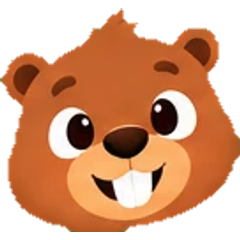
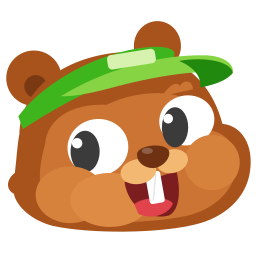
Bento redesenhado em SVG no estilo da referência, com animação
O mascote agora é um único desenho vetorial: humores, roupas e acessórios usam
o mesmo sistema de coordenadas, então nada sai do lugar. Anima acenando,
piscando, respirando e balançando o rabo. Ícones do app e do topo gerados a
partir do mesmo desenho; imagens antigas removidas.

diff --git a/src/ui/components/bento.js b/src/ui/components/bento.js
@@ -1,68 +1,152 @@
-/* Renderização do Bento e das peças da loja, no mesmo espaço das ilustrações (300 × 420). */
+/* Bento, o castor, desenhado em SVG (coordenadas da arte de referência, 1254 × 1254).
+   Humores, roupas e acessórios usam o mesmo sistema de coordenadas: nada sai do lugar. */
 import { S } from '../../engine/state.js';
 
-const MOODS = new Set(['idle','happy','cheer','sad','think','wow']);
-const WALK_SHEETS = {
-  blazer: 'walk-blazer.webp?v=2',
-  moletom: 'walk-moletom.webp?v=2',
-  auditor: 'walk-auditor.webp?v=2'
+const C = {
+  fur:'#A8531C', body:'#B35C22', shade:'#9E4C1A', face:'#CC7433', cheek:'#D6813C', muzzle:'#DD8B45',
+  light:'#F3B872', dark:'#7B3913', tail:'#6C3A28', tailLine:'#55281A', pupil:'#3B3B3B',
+  nose:'#6E3212', mouth:'#7C1D1F', tongue:'#E0434C'
 };
+const MOODS = new Set(['idle','happy','cheer','sad','think','wow']);
+let uid = 0;
 
 export function bento(mood, equip, cls){
   mood = MOODS.has(mood) ? mood : 'idle';
-  equip = equip || S.equip;
-  const walking = mood === 'idle';
-  const accessories = !!(equip.head || equip.neck);
-  if (walking) {
-    const sheet = WALK_SHEETS[equip.body] || 'walk-sheet.webp?v=2';
-    const art = '<span class="bento-walk" style="--bento-sheet:url(\'/images/bento/' + sheet + '\')" role="img" aria-label="Bento, o castor caminhando"></span>';
-    const layers = accessories ? '<svg class="bento-overlay" viewBox="0 0 300 420" aria-hidden="true">' +
+  return '<span class="bento-stage bento ' + mood + ' ' + (cls || '') + '">' + bentoSVG(mood, equip || S.equip) + '</span>';
+}
+
+export function bentoSVG(mood, equip, viewBox, headOnly){
+  equip = equip || {};
+  const id = 'bt' + (++uid);
+  const outfit = OUTFIT[equip.body];
+  const sleeve = outfit ? outfit.sleeve : C.fur;
+  const pose = POSES[mood] || POSES.idle;
+  if (headOnly) return '<svg class="bsvg" viewBox="' + viewBox + '" role="img" aria-label="Bento, o castor"><g class="b-head">' + head(pose) + headItem(equip.head) + '</g></svg>';
+  return '<svg class="bsvg" viewBox="' + (viewBox || '40 70 1180 1110') + '" role="img" aria-label="Bento, o castor">' +
+    '<defs><clipPath id="' + id + '"><path d="' + TAIL + '"/></clipPath></defs>' +
+    '<g class="b-rig">' +
+      '<g class="b-tail"><path d="' + TAIL + '" fill="' + C.tail + '"/><g clip-path="url(#' + id + ')" stroke="' + C.tailLine + '" stroke-width="16" opacity=".85">' + TAIL_LINES + '</g></g>' +
+      '<ellipse cx="520" cy="1082" rx="68" ry="55" transform="rotate(25 520 1082)" fill="' + C.dark + '"/>' +
+      '<path d="' + BODY + '" fill="' + C.body + '"/>' +
+      '<path d="M470 700 C430 800 420 950 470 1030 C510 1058 560 1066 600 1068 C560 1000 540 900 560 800 C570 750 590 715 620 695 Z" fill="' + C.shade + '"/>' +
+      '<ellipse cx="762" cy="862" rx="162" ry="160" fill="' + C.light + '"/>' +
+      (outfit ? outfit.svg : '') +
+      '<ellipse cx="930" cy="1045" rx="92" ry="55" transform="rotate(-28 930 1045)" fill="' + C.dark + '"/>' +
       (equip.neck && NECK[equip.neck] ? NECK[equip.neck] : '') +
-      (equip.head && HEAD[equip.head] ? HEAD[equip.head] : '') + '</svg>' : '';
-    return '<span class="bento-stage bento ' + mood + ' ' + (cls || '') + '">' + art + layers + '</span>';
-  }
-  const P = POSE[mood];
-  const art = '<img class="bento-art" src="/images/bento/' + mood + '.webp" alt="Bento, o castor" width="120" height="132">';
-  const layers = '<svg class="bento-overlay" viewBox="0 0 320 ' + P.h + '" aria-hidden="true">' +
-    (equip.neck && NECK[equip.neck] ? place(NECK[equip.neck], 168, 244, P.neck, P.s) : '') +
-    glasses(P.eyes) +
-    (equip.head && HEAD[equip.head] ? place(HEAD[equip.head], 160, 30, P.head, P.s) : '') + '</svg>';
-  return '<span class="bento-stage bento ' + mood + ' ' + (cls || '') + '">' + art + layers + '</span>';
+      '<g class="b-arm-r">' + pose.armR(sleeve) + '</g>' +
+      '<g class="b-arm-l">' + pose.armL(sleeve) + '</g>' +
+      '<g class="b-head">' + head(pose) + headItem(equip.head) + '</g>' +
+    '</g></svg>';
 }
 
-/* Cada humor é uma ilustração com enquadramento próprio: onde ficam o alto da
-   cabeça, o pescoço e os olhos (em pixels da imagem de 320 de largura). */
-const POSE = {
-  happy: { h:344, s:1.10, head:[172, 28, 0], neck:[167, 212], eyes:[[112,118],[218,118]] },
-  cheer: { h:364, s:1.00, head:[172, 30, 8], neck:[170, 210], eyes:[[135,120],[212,118]] },
-  sad:   { h:382, s:1.30, head:[185, 26, 0], neck:[185, 256], eyes:[[130,170],[240,166]] },
-  think: { h:365, s:1.13, head:[175, 22, -6], neck:[185, 224], eyes:[[143,129],[225,112]] },
-  wow:   { h:395, s:1.30, head:[195, 52, 0], neck:[195, 254], eyes:[[150,172],[233,160]] },
+const TAIL = 'M200 632 C130 640 88 720 98 810 C110 915 200 1005 320 1020 C400 1030 455 1000 450 950 C440 880 400 780 350 700 C310 645 260 628 200 632Z';
+const TAIL_LINES = [560, 650, 740, 830].map(b => '<path d="M40 ' + (b + 22) + ' L500 ' + (b + 275) + '"/>').join('') +
+  [190, 285, 380, 475].map(x => '<path d="M' + x + ' 600 L' + (x - 70) + ' 1060"/>').join('');
+const BODY = 'M470 700 C430 800 420 950 470 1030 C530 1075 760 1070 880 1045 C965 1020 990 930 968 830 C945 740 890 690 800 685 Z';
+
+/* ---------- braços por pose ---------- */
+const hand = (x, y, r = 0) => '<ellipse cx="' + x + '" cy="' + y + '" rx="45" ry="56" transform="rotate(' + r + ' ' + x + ' ' + y + ')" fill="' + C.dark + '"/>';
+const ARM = {
+  wave: s => '<path d="M858 700 C950 650 1015 585 1060 530 C1100 490 1170 520 1162 585 C1150 650 1080 720 975 792 C928 812 885 790 858 700Z" fill="' + s + '"/>' + hand(1118, 565, 20),
+  front: s => '<path d="M570 760 C500 742 430 748 395 775 C368 800 378 850 420 864 C470 877 535 860 580 840 Z" fill="' + s + '"/>' + hand(395, 792),
+  upL: s => '<path d="M545 785 C470 720 380 610 325 520 C300 468 238 480 245 535 C258 610 380 740 470 825 Z" fill="' + s + '"/>' + hand(272, 478, -25),
+  downR: s => '<path d="M880 730 C945 780 975 850 965 910 C958 945 912 950 895 915 C878 872 866 820 850 785 Z" fill="' + s + '"/>' + hand(935, 925, -15),
+  downL: s => '<path d="M560 760 C505 790 480 850 488 910 C494 945 540 950 555 915 C570 870 580 820 600 790 Z" fill="' + s + '"/>' + hand(520, 925, 15),
+  chin: s => '<path d="M930 780 C930 730 890 700 850 705 C815 712 815 752 850 772 Z" fill="' + s + '"/>' + hand(830, 712, 60)
 };
 
-function place(svg, ax, ay, [x, y, rot = 0], s){
-  return '<g transform="translate(' + x + ' ' + y + ') rotate(' + rot + ') scale(' + s + ') translate(' + (-ax) + ' ' + (-ay) + ')">' + svg + '</g>';
+/* ---------- rosto por pose ---------- */
+const eyeOpen = (big, dx = 0, dy = 0) => {
+  const k = big ? 1.12 : 1, p = big ? 0.8 : 1;
+  return '<g class="b-eye"><ellipse cx="585" cy="478" rx="' + 88 * k + '" ry="' + 82 * k + '" transform="rotate(-8 585 478)" fill="#fff"/>' +
+    '<ellipse cx="' + (548 + dx) + '" cy="' + (490 + dy) + '" rx="' + 42 * p + '" ry="' + 60 * p + '" fill="' + C.pupil + '"/><circle cx="' + (525 + dx) + '" cy="' + (466 + dy) + '" r="15" fill="#fff"/></g>' +
+    '<g class="b-eye"><ellipse cx="842" cy="400" rx="' + 80 * k + '" ry="' + 72 * k + '" transform="rotate(-12 842 400)" fill="#fff"/>' +
+    '<ellipse cx="' + (808 + dx) + '" cy="' + (420 + dy) + '" rx="' + 38 * p + '" ry="' + 58 * p + '" fill="' + C.pupil + '"/><circle cx="' + (788 + dx) + '" cy="' + (395 + dy) + '" r="14" fill="#fff"/></g>';
+};
+const EYES_HAPPY = '<g fill="none" stroke="' + C.pupil + '" stroke-width="20" stroke-linecap="round"><path d="M515 500 Q585 410 655 485"/><path d="M775 425 Q840 350 900 408"/></g>';
+const brows = (l, r) => '<g fill="none" stroke="' + C.dark + '" stroke-width="18" stroke-linecap="round"><path d="' + l + '"/><path d="' + r + '"/></g>';
+const MOUTH_OPEN = '<path d="M662 578 C672 650 735 690 790 675 C822 660 825 600 812 545 C765 565 705 578 662 578Z" fill="' + C.mouth + '"/>' +
+  '<path d="M690 642 C715 622 782 616 802 640 C792 670 742 690 702 670Z" fill="' + C.tongue + '"/>' +
+  '<rect x="728" y="548" width="44" height="92" rx="8" transform="rotate(-10 750 594)" fill="#fff"/><path d="M752 553 L745 632" stroke="#E4E4E4" stroke-width="4"/>';
+const TOOTH = '<rect x="726" y="555" width="40" height="62" rx="8" transform="rotate(-10 746 586)" fill="#fff"/><path d="M748 560 L742 612" stroke="#E4E4E4" stroke-width="4"/>';
+const MOUTH = {
+  open: MOUTH_OPEN,
+  sad: TOOTH.replace('y="555"', 'y="600"').replace('height="62"', 'height="44"').replace('M748 560 L742 612', 'M748 604 L744 640') + '<path d="M672 628 Q740 584 810 612" fill="none" stroke="' + C.mouth + '" stroke-width="16" stroke-linecap="round"/>',
+  think: TOOTH + '<path d="M688 628 Q740 646 800 612" fill="none" stroke="' + C.mouth + '" stroke-width="16" stroke-linecap="round"/>',
+  wow: '<ellipse cx="742" cy="628" rx="42" ry="54" fill="' + C.mouth + '"/><ellipse cx="742" cy="660" rx="28" ry="18" fill="' + C.tongue + '"/>' + TOOTH.replace('y="555"', 'y="548"').replace('height="62"', 'height="40"')
+};
+
+const POSES = {
+  idle:  { eyes:() => eyeOpen(false), mouth:MOUTH.open, armR:ARM.wave, armL:ARM.front },
+  happy: { eyes:() => EYES_HAPPY, mouth:MOUTH.open, armR:ARM.wave, armL:ARM.front },
+  cheer: { eyes:() => EYES_HAPPY, mouth:MOUTH.open, armR:ARM.wave, armL:ARM.upL },
+  sad:   { eyes:() => eyeOpen(false, 6, 18) + brows('M500 412 L625 372', 'M768 322 L890 350'), mouth:MOUTH.sad, armR:ARM.downR, armL:ARM.downL },
+  think: { eyes:() => eyeOpen(false, 18, -20) + brows('M505 372 L625 392', 'M770 300 Q830 262 890 290'), mouth:MOUTH.think, armR:ARM.chin, armL:ARM.front },
+  wow:   { eyes:() => eyeOpen(true, 4, 0) + brows('M500 360 Q565 318 630 352', 'M770 292 Q830 252 890 282'), mouth:MOUTH.wow, armR:ARM.downR, armL:ARM.front }
+};
+
+function head(pose){
+  return '<circle cx="400" cy="278" r="80" fill="' + C.fur + '"/><circle cx="405" cy="302" r="33" fill="' + C.dark + '"/>' +
+    '<ellipse cx="757" cy="185" rx="68" ry="72" fill="' + C.fur + '"/>' +
+    '<path d="M358 440 C360 320 470 225 630 205 C790 188 905 260 945 410 C1000 415 1035 470 1025 545 C1015 625 950 680 870 700 C760 728 560 728 455 705 C395 690 350 650 342 612 C318 600 320 570 345 552 C350 510 352 470 358 440Z" fill="' + C.fur + '"/>' +
+    '<path d="M432 470 C438 395 510 350 610 355 C660 330 720 318 780 322 C860 330 905 380 915 430 C965 440 995 490 985 545 C972 615 905 668 820 680 C700 700 560 700 475 672 C418 645 402 575 432 470Z" fill="' + C.face + '"/>' +
+    '<path d="M770 330 C790 300 810 285 822 300 C835 280 858 285 860 310 Z" fill="' + C.face + '"/>' +
+    pose.eyes() +
+    '<ellipse cx="505" cy="615" rx="100" ry="82" fill="' + C.cheek + '"/>' +
+    '<ellipse cx="620" cy="630" rx="115" ry="78" fill="' + C.muzzle + '"/>' +
+    '<ellipse cx="915" cy="522" rx="80" ry="80" fill="' + C.cheek + '"/>' +
+    pose.mouth +
+    '<ellipse cx="702" cy="548" rx="52" ry="36" transform="rotate(-10 702 548)" fill="' + C.light + '"/>' +
+    '<ellipse cx="800" cy="518" rx="46" ry="34" transform="rotate(-15 800 518)" fill="' + C.light + '"/>' +
+    '<path d="M698 497 C700 472 775 462 790 487 C798 507 772 537 745 538 C718 538 697 520 698 497Z" fill="' + C.nose + '"/>' +
+    '<ellipse cx="728" cy="488" rx="16" ry="9" fill="#fff" opacity=".22"/>';
 }
 
-function glasses([[x1, y1], [x2, y2]]){
-  const d = Math.hypot(x2 - x1, y2 - y1), r = d * 0.27, a = Math.atan2(y2 - y1, x2 - x1) * 180 / Math.PI;
-  const cx = (x1 + x2) / 2, cy = (y1 + y2) / 2, h = d / 2;
-  return '<g transform="translate(' + cx + ' ' + cy + ') rotate(' + a + ')" fill="rgba(255,255,255,.12)" stroke="#1F4A36" stroke-width="' + (r * 0.24) + '" stroke-linecap="round">' +
-    '<circle cx="' + (-h) + '" cy="0" r="' + r + '"/><circle cx="' + h + '" cy="0" r="' + r + '"/>' +
-    '<path d="M' + (-h + r) + ' -2 Q0 ' + (-r * 0.45) + ' ' + (h - r) + ' -2" fill="none"/>' +
-    '<path d="M' + (-h - r) + ' -3 L' + (-h - r * 1.7) + ' -8 M' + (h + r) + ' -3 L' + (h + r * 1.7) + ' -8" fill="none"/></g>';
-}
-
+/* ---------- itens da loja ---------- */
+const VISOR = '<path d="M355 388 C420 300 560 215 700 192 C760 182 800 188 806 204 L804 250 C700 252 560 300 368 425 Z" fill="#3FB51D"/>' +
+  '<path d="M478 330 C600 255 760 208 900 212 C958 215 985 245 972 268 C900 248 760 268 600 312 C560 322 510 332 478 330Z" fill="#86D443"/>' +
+  '<path d="M820 228 C900 214 970 232 975 262 C955 290 905 300 880 305 C885 275 865 248 820 228Z" fill="#22890F"/>' +
+  '<rect x="612" y="202" width="140" height="42" rx="12" transform="rotate(-9 682 223)" fill="#D6F2AE"/>';
 const HEAD = {
-  viseira: '<path d="M74 66 Q165 31 256 66 L250 80 Q165 56 80 82Z" fill="#237A55" stroke="#185C40" stroke-width="3"/><path d="M83 77 Q165 58 248 77 L261 91 Q165 73 70 94Z" fill="#39A979" stroke="#185C40" stroke-width="2"/>',
-  bone: '<path d="M78 76 Q80 35 164 33 Q236 34 241 76Z" fill="#B3432B" stroke="#8E3321" stroke-width="3"/><path d="M159 73 Q220 64 261 82 Q240 98 161 89Z" fill="#8E3321" stroke="#742A1D" stroke-width="3"/><path d="M111 54 Q153 39 191 49" fill="none" stroke="#D96A4F" stroke-width="5" stroke-linecap="round"/>',
-  capacete: '<path d="M77 77 Q77 29 164 27 Q245 29 244 77Z" fill="#F2B705" stroke="#A97800" stroke-width="4"/><path d="M62 74 Q164 61 258 75 L253 91 Q163 81 68 92Z" fill="#D99F00" stroke="#A97800" stroke-width="3"/><path d="M116 39 Q164 28 204 39" fill="none" stroke="#FFE27A" stroke-width="6" stroke-linecap="round"/>',
-  capelo: '<path d="M165 13 L256 47 L165 78 L74 47Z" fill="#244B6E" stroke="#1C3D5A" stroke-width="4"/><path d="M119 51 H211 V81 Q166 94 119 81Z" fill="#1C3D5A"/><path d="M239 53 V95" stroke="#E0B750" stroke-width="4"/><circle cx="239" cy="99" r="5" fill="#E0B750"/>',
-  coroa: '<path d="M104 75 L111 31 L139 56 L165 18 L191 56 L219 31 L226 75Z" fill="#E0B750" stroke="#A87E1F" stroke-width="4" stroke-linejoin="round"/><path d="M111 77 H219 V88 H111Z" fill="#C5962B"/><circle cx="165" cy="68" r="7" fill="#B3432B"/>',
-  fones: '<path d="M81 151 V126 Q81 43 165 43 Q249 43 249 126 V151" fill="none" stroke="#294941" stroke-width="10" stroke-linecap="round"/><rect x="70" y="119" width="27" height="48" rx="12" fill="#39788A" stroke="#294941" stroke-width="4"/><rect x="233" y="119" width="27" height="48" rx="12" fill="#39788A" stroke="#294941" stroke-width="4"/><path d="M77 131 V153 M253 131 V153" stroke="#80B7B0" stroke-width="4" stroke-linecap="round"/>'
+  bone: '<path d="M372 405 C390 262 535 182 680 178 C822 176 915 250 935 335 C800 302 560 322 372 405Z" fill="#C0432A"/>' +
+    '<path d="M835 300 C900 282 995 292 1015 320 C995 352 930 358 878 352 Z" fill="#94311F"/><circle cx="662" cy="182" r="15" fill="#94311F"/>' +
+    '<path d="M520 250 C590 215 660 205 730 210" fill="none" stroke="#DB6A50" stroke-width="18" stroke-linecap="round"/>',
+  capacete: '<path d="M385 392 C395 250 540 168 682 166 C832 166 930 250 936 330 Z" fill="#F2B705"/>' +
+    '<path d="M340 408 C520 320 765 290 980 324 L975 358 C762 322 530 352 352 442 Z" fill="#D99F00"/>' +
+    '<path d="M560 205 C640 178 720 178 792 198" fill="none" stroke="#FFE27A" stroke-width="24" stroke-linecap="round"/>',
+  capelo: '<path d="M462 340 C520 255 780 225 868 285 L858 338 C760 296 560 306 472 392Z" fill="#1C3D5A"/>' +
+    '<path d="M652 112 L940 205 L682 298 L395 212Z" fill="#244B6E"/><circle cx="668" cy="205" r="14" fill="#E0B750"/>' +
+    '<path d="M668 205 L885 225 L902 335" fill="none" stroke="#E0B750" stroke-width="10"/><circle cx="903" cy="348" r="18" fill="#E0B750"/>',
+  coroa: '<path d="M492 332 L472 178 L566 250 L650 132 L732 234 L836 156 L846 304 C735 284 600 294 492 332Z" fill="#E0B750" stroke="#A87E1F" stroke-width="12" stroke-linejoin="round"/>' +
+    '<circle cx="660" cy="282" r="20" fill="#B3432B"/><circle cx="560" cy="300" r="12" fill="#3FB51D"/><circle cx="765" cy="276" r="12" fill="#39788A"/>',
+  fones: '<path d="M372 520 C360 300 500 190 662 185 C822 182 952 290 962 470" fill="none" stroke="#294941" stroke-width="32" stroke-linecap="round"/>' +
+    '<rect x="326" y="468" width="78" height="134" rx="34" fill="#39788A" stroke="#294941" stroke-width="12"/>' +
+    '<rect x="932" y="406" width="76" height="128" rx="34" fill="#39788A" stroke="#294941" stroke-width="12"/>'
 };
+function headItem(id){ return id && HEAD[id] ? HEAD[id] : VISOR; }
 
 const NECK = {
-  gravata: '<path d="M153 244 H183 L177 258 H159Z" fill="#8E3321"/><path d="M159 257 L177 257 L184 325 L168 340 L152 325Z" fill="#B3432B" stroke="#8E3321" stroke-width="3" stroke-linejoin="round"/><path d="M163 266 L173 266 L178 318" fill="none" stroke="#D96A4F" stroke-width="3" stroke-linecap="round"/>',
-  cachecol: '<path d="M119 235 Q165 254 212 235 L208 261 Q165 281 123 261Z" fill="#1F6F78" stroke="#18585F" stroke-width="3"/><path d="M190 257 L215 256 L224 322 L199 326Z" fill="#18585F" stroke="#12484E" stroke-width="3"/><path d="M128 250 Q165 265 201 250" fill="none" stroke="#E0B750" stroke-width="4" stroke-dasharray="7 7"/>'
+  gravata: '<path d="M705 700 L778 695 L768 742 L716 745Z" fill="#8E3321"/><path d="M716 740 L768 738 L795 905 L745 958 L700 900Z" fill="#B3432B"/>' +
+    '<path d="M735 760 L760 890" stroke="#D96A4F" stroke-width="8" stroke-linecap="round"/>',
+  cachecol: '<path d="M465 688 C600 742 800 742 905 686 L912 748 C800 806 590 806 458 748Z" fill="#1F6F78"/>' +
+    '<path d="M792 742 L858 734 L884 905 L816 912Z" fill="#18585F"/>' +
+    '<path d="M500 735 C620 775 780 775 880 730" fill="none" stroke="#E0B750" stroke-width="10" stroke-dasharray="26 22"/>'
+};
+
+const jacket = (color, lapel, shirt, button) =>
+  '<path d="M470 700 C430 800 420 950 470 1030 C540 1068 640 1072 705 1070 L705 905 L612 700Z" fill="' + color + '"/>' +
+  '<path d="M820 688 C900 700 950 750 968 830 C990 930 965 1020 880 1045 C820 1058 765 1066 722 1070 L722 905 L800 692Z" fill="' + color + '"/>' +
+  '<path d="M612 700 L705 905 L722 905 L800 692 Z" fill="' + shirt + '"/>' +
+  '<path d="M612 700 L700 880 L640 800 L610 760Z" fill="' + lapel + '"/><path d="M800 692 L726 880 L790 800 L815 752Z" fill="' + lapel + '"/>' +
+  '<circle cx="714" cy="960" r="13" fill="' + button + '"/><circle cx="714" cy="1015" r="13" fill="' + button + '"/>';
+const OUTFIT = {
+  blazer: { sleeve:'#1F5C43', svg: jacket('#1F5C43', '#17483A', '#F4F1E8', '#E0B750') },
+  auditor: { sleeve:'#22304F', svg: jacket('#22304F', '#172238', '#DDE3EA', '#C9CED6') +
+    '<path d="M700 705 L728 705 L740 880 L714 910 L690 880Z" fill="#B3432B"/>' },
+  moletom: { sleeve:'#2E8C8C', svg:
+    '<path d="' + BODY + '" fill="#2E8C8C"/>' +
+    '<path d="M462 700 C590 770 800 765 895 690 L915 730 C800 812 580 812 450 742Z" fill="#257575"/>' +
+    '<path d="M618 925 L902 925 L882 1022 L640 1022Z" fill="#257575"/>' +
+    '<path d="M680 752 L672 850 M790 750 L800 848" stroke="#F4F1E8" stroke-width="10" stroke-linecap="round"/>' +
+    '<circle cx="672" cy="858" r="11" fill="#F4F1E8"/><circle cx="800" cy="856" r="11" fill="#F4F1E8"/>' }
 };

diff --git a/src/styles/learning.css b/src/styles/learning.css
@@ -90,7 +90,8 @@
 .shop-card{display:flex;flex-direction:column;gap:5px;padding:12px;border:1px solid var(--line);background:var(--card);border-radius:16px;min-width:0;transition:transform .18s,border-color .18s,background .18s;}
 .shop-card.selected{border-color:var(--green);background:var(--greenp);}
 .sc-prev{height:94px;width:100%;display:grid;place-items:center;border-radius:12px;background:var(--soft);overflow:hidden;}
-.sc-prev .bento-wrap{width:72px;height:82px;}
+.sc-prev{position:relative;}
+.sc-prev .bento-stage{position:absolute;inset:4px;width:auto;height:auto;}
 .sc-n{font-size:.82rem;font-weight:700;line-height:1.35;min-height:2.3em;margin:2px 0 0;}
 .sc-desc{font-size:.7rem;line-height:1.4;color:var(--muted);min-height:2.8em;}
 .shop-card .seqbtn{margin-top:auto;}
@@ -119,7 +120,7 @@ body.modal-open{overflow:hidden;}
   .course-metrics{gap:12px;}
   .course-metrics>span{flex:1;}
   .shop-preview{gap:10px;padding:12px;}
-  .shop-preview .bento-wrap.lg{width:120px;height:132px;margin:0;}
+  .shop-preview .bento-wrap.lg{width:140px;height:132px;margin:0;}
   .shop-current{font-size:.73rem;}
   .shop-card{padding:9px;}
   .sc-prev{height:84px;}
@@ -127,15 +128,27 @@ body.modal-open{overflow:hidden;}
 
 /* O castor permanece no lugar: quem se move são as quatro poses do passo. */
 .bento-stage{display:block;position:relative;width:100%;height:100%;}
-.bento-stage .bento-art,.bento-eq .bento-art{position:absolute;inset:0;width:100%;height:100%;object-fit:contain;}
-.bento-overlay{position:absolute;inset:0;width:100%;height:100%;overflow:visible;pointer-events:none;}
-.bento-walk{position:absolute;left:50%;top:0;height:100%;aspect-ratio:3/4;transform:translateX(-50%);background-image:var(--bento-sheet,url('/images/bento/walk-sheet.webp'));background-repeat:no-repeat;background-size:400% 100%;background-position:0 0;animation:bento-step .92s steps(1,end) infinite;}
-@keyframes bento-step{
-  0%,100%{background-position:0 0;}
-  25%{background-position:33.333% 0;}
-  50%{background-position:66.667% 0;}
-  75%{background-position:100% 0;}
-}
+.bento-stage .bsvg{display:block;width:100%;height:100%;overflow:visible;}
+.bsvg .b-rig{transform-box:view-box;transform-origin:700px 1100px;}
+.bsvg .b-tail{transform-box:view-box;transform-origin:440px 960px;animation:btail 2.6s ease-in-out infinite;}
+.bsvg .b-eye{transform-box:fill-box;transform-origin:center;animation:bblink 5s infinite;}
+.bento.idle .b-rig{animation:bbreath 2.8s ease-in-out infinite;}
+.bento.idle .b-arm-r,.bento.happy .b-arm-r,.bento.cheer .b-arm-r{transform-box:view-box;transform-origin:880px 760px;animation:bwave 1.6s ease-in-out infinite;}
+.bento.cheer .b-arm-l{transform-box:view-box;transform-origin:520px 790px;animation:bwavel 1.6s ease-in-out infinite;}
+.bento.happy .b-rig,.bento.cheer .b-rig{animation:bhop .9s ease-in-out infinite;}
+.bento.think .b-head{transform-box:view-box;transform-origin:680px 700px;animation:btilt 3s ease-in-out infinite;}
+.bento.sad .b-rig{animation:bsag 3s ease-in-out infinite;}
+.bento.wow .b-rig{animation:bwow .6s ease-out 1;}
+@keyframes btail{0%,100%{transform:rotate(0)}50%{transform:rotate(5deg)}}
+@keyframes bblink{0%,92%,100%{transform:scaleY(1)}95%{transform:scaleY(.08)}}
+@keyframes bbreath{0%,100%{transform:translateY(0) scale(1)}50%{transform:translateY(-10px) scale(1.01)}}
+@keyframes bwave{0%,100%{transform:rotate(0)}50%{transform:rotate(-16deg)}}
+@keyframes bwavel{0%,100%{transform:rotate(0)}50%{transform:rotate(14deg)}}
+@keyframes bhop{0%,100%{transform:translateY(0)}40%{transform:translateY(-40px)}70%{transform:translateY(0) scaleY(.97)}}
+@keyframes btilt{0%,100%{transform:rotate(0)}50%{transform:rotate(-4deg)}}
+@keyframes bsag{0%,100%{transform:translateY(0)}50%{transform:translateY(8px)}}
+@keyframes bwow{0%{transform:scale(.9)}60%{transform:scale(1.06)}100%{transform:scale(1)}}
+@media(prefers-reduced-motion:reduce){.bsvg *{animation:none !important;}}
 @media(hover:hover){
   .learning-unit{transition:border-color .18s,box-shadow .18s;}
   .learning-unit:hover{border-color:color-mix(in srgb,var(--green) 38%,var(--line));box-shadow:0 7px 24px -20px var(--shadow);}
@@ -149,4 +162,3 @@ body.modal-open{overflow:hidden;}
   .learning-unit summary{min-height:72px;}
   .checkpoint-card{min-height:68px;}
 }
-@media(prefers-reduced-motion:reduce){.bento-walk{animation:none;background-position:0 0;}}

diff --git a/src/styles/main.css b/src/styles/main.css
@@ -75,24 +75,20 @@ h1,h2,h3{font-family:var(--fd); color:var(--ink); line-height:1.25; margin:0;}
 /* ---------- Bento, o castor ---------- */
 .bento-wrap{flex:none; filter:drop-shadow(0 4px 6px var(--shadow));}
 svg.bento, img.bento, img.bento-img{display:block; width:100%; height:100%; object-fit:contain;}
-.bento-wrap.xs{width:46px; height:50px;}
-.bento-wrap.sm{width:58px; height:64px;}
-.bento-wrap.md{width:100px; height:110px; margin:0 auto 8px;}
-.bento-wrap.lg{width:150px; height:165px; margin:0 auto;}
-.bento-wrap.xl{width:130px; height:143px; margin:0 auto 14px;}
+.bento-wrap.xs{width:54px; height:51px;}
+.bento-wrap.sm{width:76px; height:72px;}
+.bento-wrap.md{width:130px; height:122px; margin:0 auto 8px;}
+.bento-wrap.lg{width:170px; height:160px; margin:0 auto;}
+.bento-wrap.xl{width:220px; height:207px; margin:0 auto 14px;}
 .bento-wrap.center-b{display:block;}
 .bento-row{display:flex; align-items:flex-end; gap:10px; padding:14px 16px 4px;}
 .bento-row.tight{padding:0 0 10px; align-items:center;}
 .speech{position:relative; flex:1; background:var(--card); border:1px solid var(--line); border-radius:14px; padding:10px 13px; font-size:.87rem; line-height:1.4; color:var(--text); margin-bottom:6px;}
 .speech::before{content:""; position:absolute; left:-7px; bottom:12px; width:12px; height:12px; background:var(--card); border-left:1px solid var(--line); border-bottom:1px solid var(--line); transform:rotate(45deg);}
 .speech.sm{font-size:.85rem; margin-bottom:0;}
-.bento.happy,.bento.cheer{animation:bbounce .5s ease;}
-.bento.sad{animation:bshake .4s ease;}
-.bento-hero-wave{animation:bhero 2.6s ease-in-out infinite; transform-origin:70% 85%;}
 @keyframes bfloat{0%,100%{transform:translateY(0)} 50%{transform:translateY(-4px)}}
 @keyframes bbounce{0%{transform:scale(1)} 30%{transform:scale(1.12)} 60%{transform:scale(.96)} 100%{transform:scale(1)}}
 @keyframes bshake{20%{transform:translateX(-4px) rotate(-2deg)} 60%{transform:translateX(4px) rotate(2deg)} 100%{transform:translateX(0) rotate(0)}}
-@keyframes bhero{0%,100%{transform:translateY(0) rotate(0)} 30%{transform:translateY(-6px) rotate(-2deg)} 60%{transform:translateY(0) rotate(2deg)}}
 
 /* ---------- home ---------- */
 .goal-row{display:flex; align-items:center; gap:14px; padding:6px 16px 4px;}
@@ -437,9 +433,6 @@ tr:last-child td{border-bottom:none;}
 @media (prefers-reduced-motion: reduce){
   *,*::before,*::after{animation:none !important; transition:none !important;}
 }
-.bento-eq{display:block; position:relative; width:100%; height:100%;}
-.bento-eq img{display:block; width:100%; height:100%; object-fit:contain;}
-.bento-eq svg{position:absolute; inset:0; width:100%; height:100%; overflow:visible;}
 .acorn{width:1.15em; height:1.15em; display:inline-block; vertical-align:-.2em; flex:none;}
 .pill .xpl{font-style:normal; font-size:.72rem; font-weight:800; letter-spacing:.04em;}
 .stats{flex:none;}

diff --git a/src/ui/screens/shop.js b/src/ui/screens/shop.js
@@ -14,7 +14,7 @@ export function renderShop(){
   s.innerHTML = '<div class="pad"><h1 style="font-size:1.45rem">Loja do Bento</h1><div class="pill xp" style="width:fit-content;margin:6px 0 16px">' + ACORN + ' <span>' + S.coins + '</span> bolotas</div>' +
     '<div class="shop-preview"><div class="bento-wrap lg">' + bento('idle', S.equip, 'shop-avatar') + '</div><div class="shop-current"><span class="eyebrow">VISUAL ATUAL</span><strong>' + currentLook() + '</strong><span>Combine acessórios e visuais para personalizar o Bento.</span></div></div>' +
     '<h2 class="sec-h" style="margin:6px 0 10px">Represa da sequência</h2><div class="card" style="display:flex;align-items:center;gap:12px"><span style="font-size:1.8rem">🛡</span><div style="flex:1"><div style="font-weight:700">Represa de sequência</div><div class="small muted">Protege sua sequência se você faltar um dia. Você tem ' + S.freezes + '.</div></div><button class="btn primary" data-act="buyfreeze" style="width:auto;padding:10px 16px" ' + (S.coins < 80 ? 'disabled' : '') + '>80' + ACORN + '</button></div>' +
-    '<h2 class="sec-h shop-section-title">Visuais completos</h2><p class="shop-intro">Mude o estilo do Bento. O corpinho laranja e a barriguinha continuam aparecendo.</p><div class="shop-grid body-skins">' + OUTFITS.filter(o => o.slot === 'body').map(shopCard).join('') + '</div>' +
+    '<h2 class="sec-h shop-section-title">Visuais completos</h2><p class="shop-intro">Roupas para o Bento. Combinam com qualquer chapéu e acessório.</p><div class="shop-grid body-skins">' + OUTFITS.filter(o => o.slot === 'body').map(shopCard).join('') + '</div>' +
     '<h2 class="sec-h shop-section-title">Acessórios</h2><p class="shop-intro">Escolha um item para a cabeça ou para o pescoço.</p><div class="shop-grid">' + OUTFITS.filter(o => o.slot !== 'body').map(shopCard).join('') + '</div></div>';
   bindActs(s, { buyfreeze: buyFreeze });
   $$('[data-buy]', s).forEach(b => b.onclick = () => buyOutfit(b.dataset.buy));
@@ -28,7 +28,6 @@ function shopCard(o){
 }
 function currentLook(){
   const parts = OUTFITS.filter(o => S.equip[o.slot] === o.id).map(o => o.n);
-  if (S.equip.glasses) parts.push('Óculos clássicos');
   return parts.length ? parts.join(' · ') : 'Bento original';
 }
 function buyOutfit(id){

diff --git a/src/ui/screens/onboarding.js b/src/ui/screens/onboarding.js
@@ -14,7 +14,7 @@ export function resetOnb(goal, area){ ONB = { step:0, goal:goal || 30, area:area
 export function renderOnb(){
   const s = $('#s-onb'); let h = '', btns = '';
   if (ONB.step === 0){
-    h = '<div class="bento-wrap xl center-b"><img class="bento-img bento-hero-wave" src="/images/bento-hero.png" alt="Bento, o castor, acenando com uma calculadora e um livro"></div><h1>Oi, eu sou o Bento!</h1><p class="lead">Vou te ensinar Contabilidade do absoluto zero, um passo de cada vez — como construir uma represa: tronco por tronco.</p><p class="lead">Teoria explicada com calma, exercícios variados, dicas quando você travar e revisão automática dos seus erros.</p>';
+    h = '<div class="bento-wrap xl center-b">' + bento('idle', {}) + '</div><h1>Oi, eu sou o Bento!</h1><p class="lead">Vou te ensinar Contabilidade do absoluto zero, um passo de cada vez — como construir uma represa: tronco por tronco.</p><p class="lead">Teoria explicada com calma, exercícios variados, dicas quando você travar e revisão automática dos seus erros.</p>';
     btns = '<button class="btn primary" data-act="n">Vamos começar</button>';
   } else if (ONB.step === 1){
     h = '<h1>O que você quer estudar?</h1><p class="lead">Escolha uma área para começar. Depois você poderá trocar quando quiser.</p><div class="onb-area-list">' +

diff --git a/src/engine/state.js b/src/engine/state.js
@@ -11,7 +11,7 @@ export const LS_OLD = 'contatrilha_progress_v1';
 
 export function fresh(){
   return { v:4, area:null, xp:0, streak:0, lastActive:null, done:{}, perfect:{}, trophies:{}, unlocked:{}, mistakes:{}, days:{}, goal:30, sound:true, onboarded:false,
-    badges:{}, checkpoints:{}, repetition:{}, lessons:0, reviews:0, coins:0, freezes:0, boostUntil:0, owned:{}, equip:{ glasses:true, head:null, neck:null, body:null },
+    badges:{}, checkpoints:{}, repetition:{}, lessons:0, reviews:0, coins:0, freezes:0, boostUntil:0, owned:{}, equip:{ head:null, neck:null, body:null },
     daily:{ date:null, ms:[], chest:false }, best:{ blitz:0 }, cases:{}, st:{ correct:0, entries:0, writes:0, hints:0, coins:0, marathons:0 }, theme:'auto', usedFreeze:0 };
 }
 

diff --git a/src/content/shop-items.js b/src/content/shop-items.js
@@ -4,7 +4,6 @@ export const OUTFITS = [
   {id:'blazer', slot:'body', n:'Blazer do contador', d:'Arrumado para fechar o mês.', p:180},
   {id:'moletom', slot:'body', n:'Moletom da represa', d:'Conforto para estudar sem pressa.', p:140},
   {id:'auditor', slot:'body', n:'Terno do auditor', d:'Elegante para examinar cada detalhe.', p:220},
-  {id:'viseira', slot:'head', n:'Viseira de contador', p:60},
   {id:'bone', slot:'head', n:'Boné', p:60},
   {id:'gravata', slot:'neck', n:'Gravata', p:50},
   {id:'cachecol', slot:'neck', n:'Cachecol', p:80},
